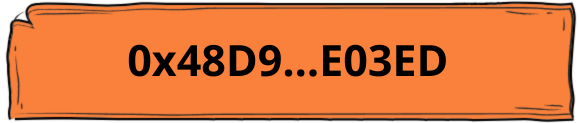
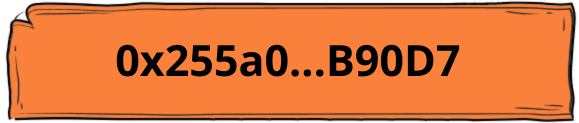
ee

Changed region(s): [[0.1865, 0.3415, 0.8083, 0.6341]]

diff --git a/app/component/tokenomics.js b/app/component/tokenomics.js
@@ -39,7 +39,13 @@ export default function Tokenomics() {
           </p>
           <div className="">
             {" "}
-            <Image className="" src={ad} alt="" width={460} height={460} />{" "}
+            <Image
+              className=""
+              src={addd}
+              alt=""
+              width={460}
+              height={460}
+            />{" "}
           </div>
         </div>
       </div>
